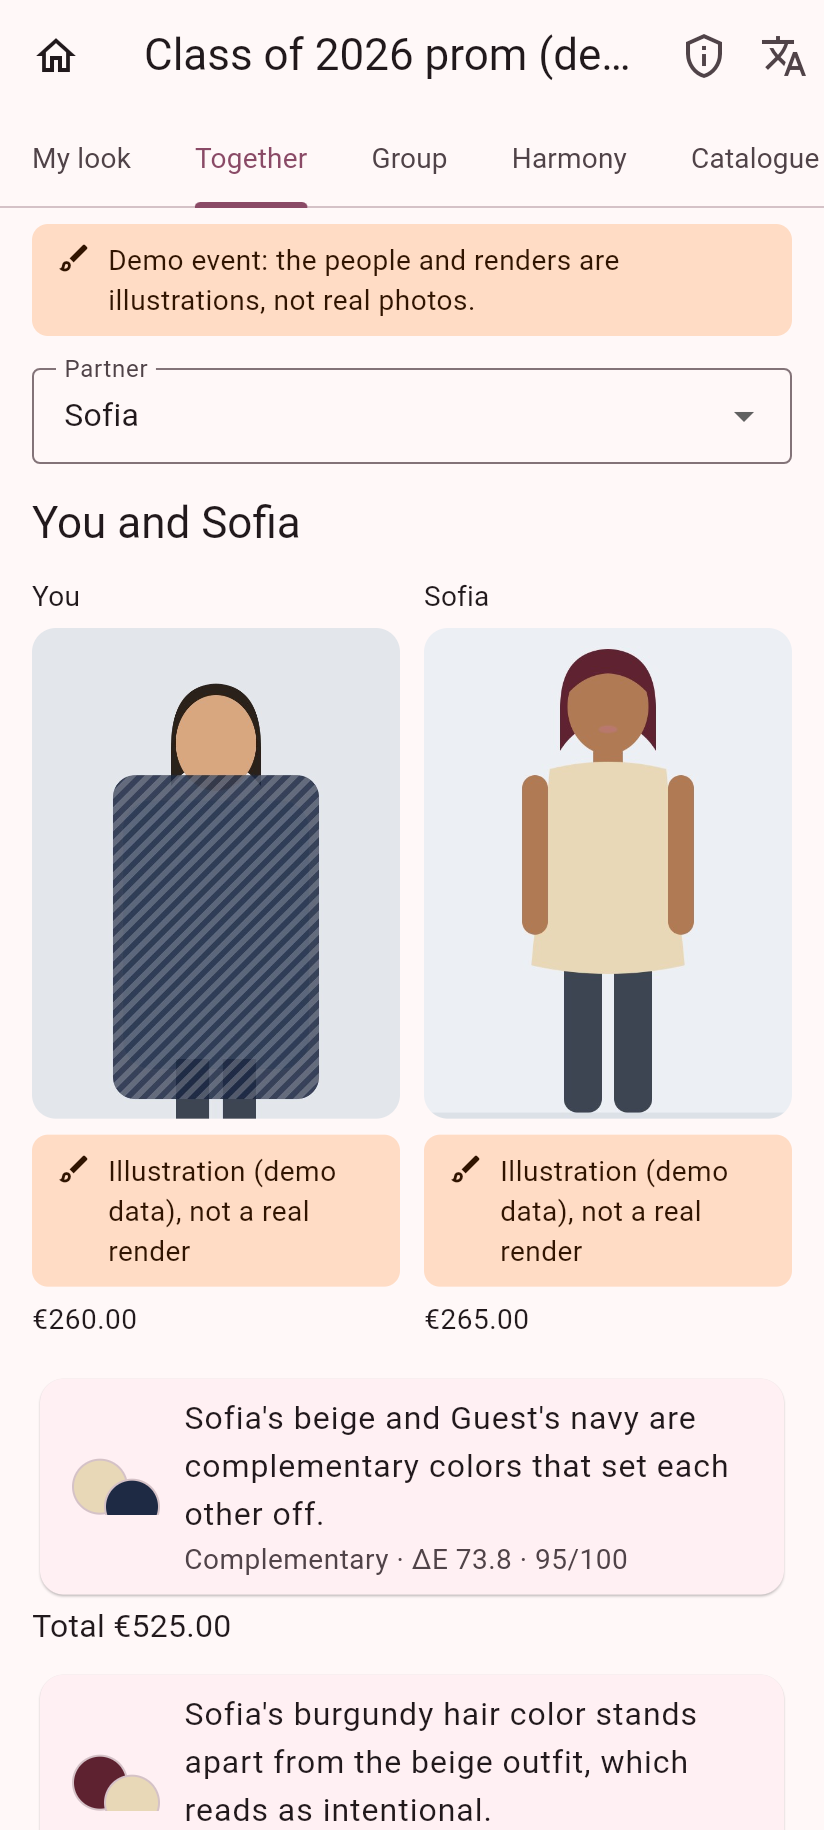
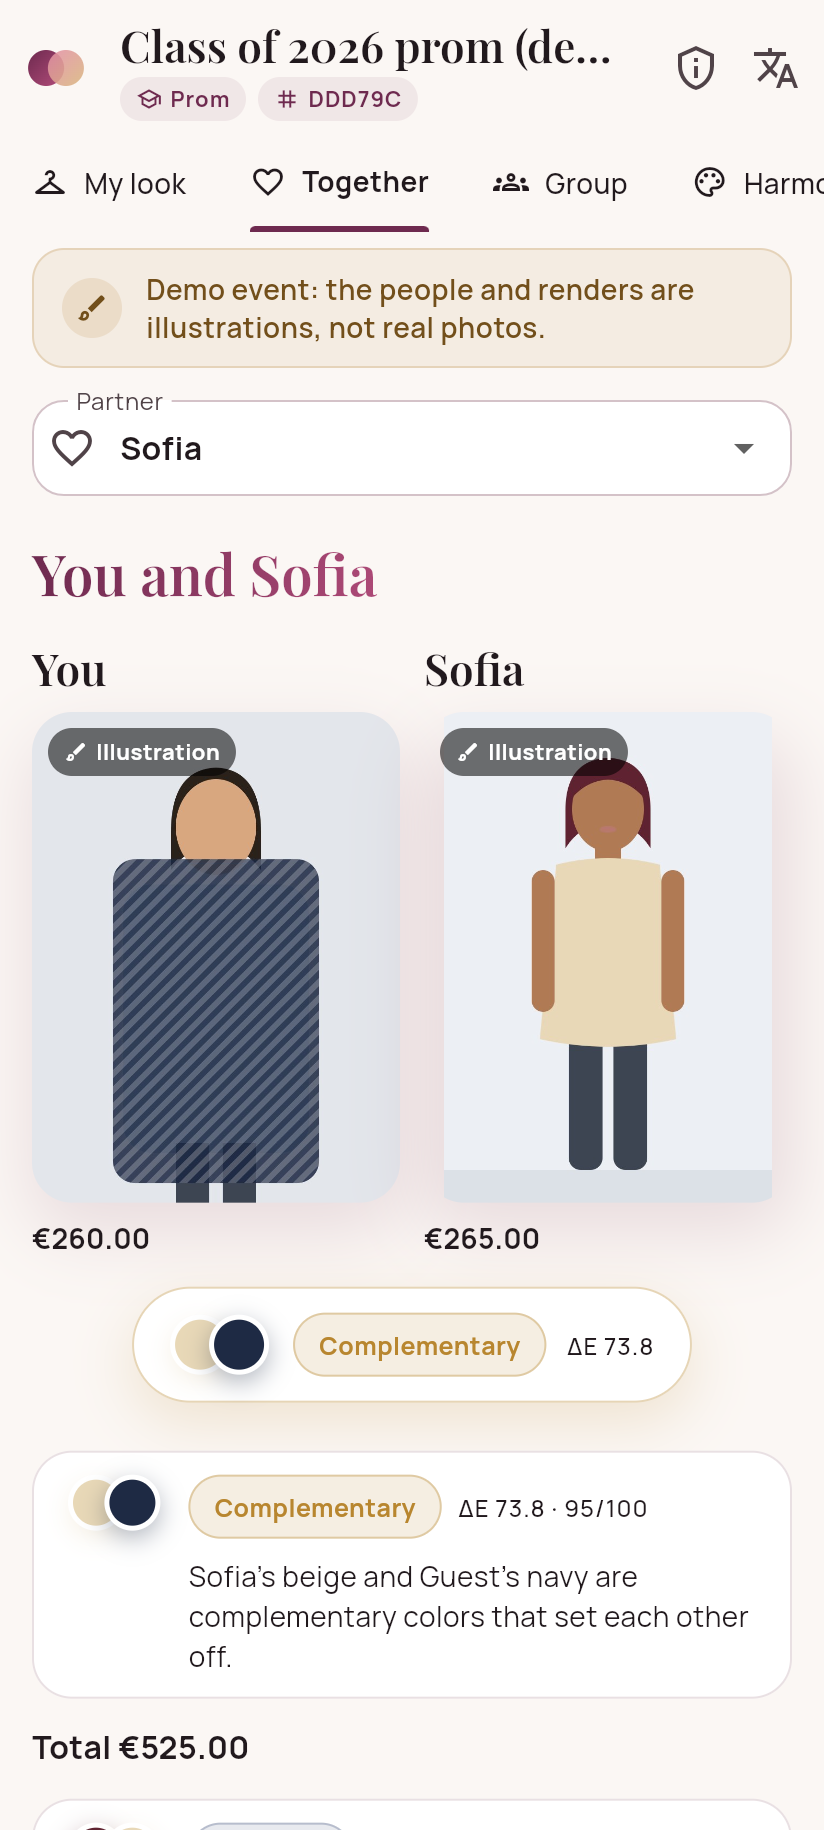
Polish the redesign from a visual review and refresh screenshots
Color strips in the catalogue now render, the partner relation fits narrow screens, compact try-on pictures carry a small simulated or illustration badge, the join code uses lining figures, color pairs no longer clip their shadows, and focused pages opened from a link offer a way home. README shows the new design in light and dark.

Changed region(s): [[0.0303, 0.0, 1.0, 1.0], [0.7282, 0.9344, 0.8495, 0.9656], [0.8799, 0.218, 0.9102, 0.2492]]

diff --git a/app/lib/features/event/together_tab.dart b/app/lib/features/event/together_tab.dart
@@ -144,8 +144,12 @@ class _TogetherTabState extends State<TogetherTab> with BoardLoader {
                   const SizedBox(height: 16),
                   LayoutBuilder(
                     builder: (context, constraints) {
-                      final link = _HarmonyLink(finding: pairFinding);
-                      if (constraints.maxWidth < 520) {
+                      final narrow = constraints.maxWidth < 520;
+                      final link = _HarmonyLink(
+                        finding: pairFinding,
+                        horizontal: narrow,
+                      );
+                      if (narrow) {
                         return Column(
                           crossAxisAlignment: CrossAxisAlignment.stretch,
                           children: [
@@ -232,9 +236,12 @@ class _TogetherTabState extends State<TogetherTab> with BoardLoader {
 
 /// The color relation between two people, drawn between their pictures.
 class _HarmonyLink extends StatelessWidget {
-  const _HarmonyLink({required this.finding});
+  const _HarmonyLink({required this.finding, this.horizontal = false});
 
   final HarmonyFinding? finding;
+
+  /// Below the pictures on narrow screens; between them otherwise.
+  final bool horizontal;
 
   @override
   Widget build(BuildContext context) {
@@ -243,46 +250,62 @@ class _HarmonyLink extends StatelessWidget {
     if (f == null) {
       return const Icon(Icons.favorite, color: Brand.rose, size: 32);
     }
+    final color = relationColor(f.relation);
+    final pair = ColorPair(
+      a: hexColor(f.colors[0].hex),
+      b: hexColor(f.colors[1].hex),
+      size: 30,
+    );
+    final pill = RelationPill(
+      relation: f.relation,
+      label: relationName(l10n, f.relation),
+    );
+    final delta = Text(
+      'ΔE ${f.deltaE.toStringAsFixed(1)}',
+      style: Theme.of(context).textTheme.labelMedium,
+    );
+
     return Reveal(
       delay: const Duration(milliseconds: 320),
       scale: 0.8,
       child: Container(
-        width: 112,
-        padding: const EdgeInsets.symmetric(vertical: 16, horizontal: 10),
+        width: horizontal ? null : 132,
+        padding: horizontal
+            ? const EdgeInsets.symmetric(vertical: 12, horizontal: 18)
+            : const EdgeInsets.symmetric(vertical: 16, horizontal: 10),
         decoration: BoxDecoration(
           color: Theme.of(context).colorScheme.surfaceContainerLowest,
-          borderRadius: BorderRadius.circular(24),
-          border: Border.all(
-            color: relationColor(f.relation).withValues(alpha: 0.35),
-          ),
+          borderRadius: BorderRadius.circular(horizontal ? 40 : 24),
+          border: Border.all(color: color.withValues(alpha: 0.35)),
           boxShadow: [
             BoxShadow(
-              color: relationColor(f.relation).withValues(alpha: 0.18),
+              color: color.withValues(alpha: 0.18),
               blurRadius: 24,
               offset: const Offset(0, 10),
             ),
           ],
         ),
-        child: Column(
-          mainAxisSize: MainAxisSize.min,
-          children: [
-            ColorPair(
-              a: hexColor(f.colors[0].hex),
-              b: hexColor(f.colors[1].hex),
-              size: 30,
-            ),
-            const SizedBox(height: 10),
-            RelationPill(
-              relation: f.relation,
-              label: relationName(l10n, f.relation),
-            ),
-            const SizedBox(height: 6),
-            Text(
-              'ΔE ${f.deltaE.toStringAsFixed(1)}',
-              style: Theme.of(context).textTheme.labelMedium,
-            ),
-          ],
-        ),
+        child: horizontal
+            ? Row(
+                mainAxisSize: MainAxisSize.min,
+                children: [
+                  pair,
+                  const SizedBox(width: 12),
+                  pill,
+                  const SizedBox(width: 10),
+                  delta,
+                ],
+              )
+            : Column(
+                mainAxisSize: MainAxisSize.min,
+                children: [
+                  pair,
+                  const SizedBox(height: 10),
+                  FittedBox(fit: BoxFit.scaleDown, child: pill),
+                  const SizedBox(height: 6),
+                  delta,
+                ],
+              ),
       ),
     );
   }

diff --git a/app/lib/widgets/render_view.dart b/app/lib/widgets/render_view.dart
@@ -71,20 +71,21 @@ class RenderView extends StatelessWidget {
     } else if (render.checks?.drift == true) {
       notices.add(NoticeBar(l10n.checkDrift, icon: Icons.palette_outlined));
     }
+    // Simulated or illustrated results are always labeled: a full notice, or a
+    // small badge on the picture in compact layouts.
+    final simulatedLabel = render.resultUrl == null
+        ? null
+        : demo
+        ? (l10n.badgeIllustration, l10n.demoRenderBadge, Icons.brush_outlined)
+        : render.mock
+        ? (l10n.badgeSimulated, l10n.mockBadge, Icons.science_outlined)
+        : null;
     if (render.resultUrl != null) {
-      if (demo) {
+      if (simulatedLabel != null && !compact) {
         notices.add(
           NoticeBar(
-            l10n.demoRenderBadge,
-            icon: Icons.brush_outlined,
-            tone: NoticeTone.simulated,
-          ),
-        );
-      } else if (render.mock) {
-        notices.add(
-          NoticeBar(
-            l10n.mockBadge,
-            icon: Icons.science_outlined,
+            simulatedLabel.$2,
+            icon: simulatedLabel.$3,
             tone: NoticeTone.simulated,
           ),
         );
@@ -146,7 +147,53 @@ class RenderView extends StatelessWidget {
           ),
           child: ClipRRect(
             borderRadius: radius,
-            child: AspectRatio(aspectRatio: 3 / 4, child: picture),
+            child: AspectRatio(
+              aspectRatio: 3 / 4,
+              child: compact && simulatedLabel != null
+                  ? Stack(
+                      fit: StackFit.expand,
+                      children: [
+                        picture,
+                        Positioned(
+                          left: 8,
+                          top: 8,
+                          child: Tooltip(
+                            message: simulatedLabel.$2,
+                            child: Container(
+                              padding: const EdgeInsets.symmetric(
+                                horizontal: 8,
+                                vertical: 4,
+                              ),
+                              decoration: BoxDecoration(
+                                color: Colors.black.withValues(alpha: 0.55),
+                                borderRadius: BorderRadius.circular(12),
+                              ),
+                              child: Row(
+                                mainAxisSize: MainAxisSize.min,
+                                children: [
+                                  Icon(
+                                    simulatedLabel.$3,
+                                    size: 12,
+                                    color: Colors.white,
+                                  ),
+                                  const SizedBox(width: 4),
+                                  Text(
+                                    simulatedLabel.$1,
+                                    style: const TextStyle(
+                                      color: Colors.white,
+                                      fontSize: 11,
+                                      fontWeight: FontWeight.w700,
+                                    ),
+                                  ),
+                                ],
+                              ),
+                            ),
+                          ),
+                        ),
+                      ],
+                    )
+                  : picture,
+            ),
           ),
         ),
         if (render.steps.length > 1 && !compact) ...[

diff --git a/app/lib/widgets/form_scaffold.dart b/app/lib/widgets/form_scaffold.dart
@@ -1,4 +1,5 @@
 import 'package:flutter/material.dart';
+import 'package:go_router/go_router.dart';
 
 import '../theme.dart';
 import '../ui/effects.dart';
@@ -29,7 +30,16 @@ class FormScaffold extends StatelessWidget {
     final text = Theme.of(context).textTheme;
     return Scaffold(
       extendBodyBehindAppBar: true,
-      appBar: AppBar(actions: [...actions, const SizedBox(width: 8)]),
+      appBar: AppBar(
+        // Opened straight from a link there is no page to go back to; offer home instead.
+        leading: context.canPop()
+            ? null
+            : IconButton(
+                icon: const BrandMark(size: 18, showName: false),
+                onPressed: () => context.go('/'),
+              ),
+        actions: [...actions, const SizedBox(width: 8)],
+      ),
       body: AuroraBackground(
         intensity: 0.75,
         child: SafeArea(

diff --git a/app/lib/features/participant/join_screen.dart b/app/lib/features/participant/join_screen.dart
@@ -4,6 +4,7 @@ import 'package:go_router/go_router.dart';
 import '../../api/models.dart';
 import '../../app_scope.dart';
 import '../../l10n/app_localizations.dart';
+import '../../theme.dart';
 import '../../util/format.dart';
 import '../../widgets/common.dart';
 import '../../ui/effects.dart';
@@ -91,10 +92,7 @@ class _JoinScreenState extends State<JoinScreen> {
           controller: _code,
           textCapitalization: TextCapitalization.characters,
           textAlign: TextAlign.center,
-          style: text.headlineSmall?.copyWith(
-            letterSpacing: 8,
-            fontWeight: FontWeight.w700,
-          ),
+          style: Brand.numbers(text.headlineSmall)?.copyWith(letterSpacing: 8),
           decoration: InputDecoration(labelText: l10n.joinCodeLabel),
           onChanged: (_) => _lookUp(),
         ),

diff --git a/app/lib/features/event/catalogue_tab.dart b/app/lib/features/event/catalogue_tab.dart
@@ -70,7 +70,8 @@ class _CatalogueTabState extends State<CatalogueTab> {
 
   Future<void> _delete(CatalogItem item) async {
     final l10n = AppLocalizations.of(context);
-    if (!await confirm(context, l10n.deleteItemConfirm(item.name)) || !mounted) {
+    if (!await confirm(context, l10n.deleteItemConfirm(item.name)) ||
+        !mounted) {
       return;
     }
     await runWithFeedback(
@@ -307,6 +308,7 @@ class _ColorStrip extends StatelessWidget {
       child: SizedBox(
         height: 10,
         child: Row(
+          crossAxisAlignment: CrossAxisAlignment.stretch,
           children: [
             for (final color in colors)
               Expanded(

diff --git a/app/lib/l10n/app_localizations.dart b/app/lib/l10n/app_localizations.dart
@@ -1776,6 +1776,18 @@ abstract class AppLocalizations {
   /// In en, this message translates to:
   /// **'Try-on steps'**
   String get stepsTitle;
+
+  /// No description provided for @badgeIllustration.
+  ///
+  /// In en, this message translates to:
+  /// **'Illustration'**
+  String get badgeIllustration;
+
+  /// No description provided for @badgeSimulated.
+  ///
+  /// In en, this message translates to:
+  /// **'Simulated'**
+  String get badgeSimulated;
 }
 
 class _AppLocalizationsDelegate

diff --git a/app/lib/l10n/app_localizations_bg.dart b/app/lib/l10n/app_localizations_bg.dart
@@ -974,4 +974,10 @@ class AppLocalizationsBg extends AppLocalizations {
 
   @override
   String get stepsTitle => 'Стъпки на пробването';
+
+  @override
+  String get badgeIllustration => 'Илюстрация';
+
+  @override
+  String get badgeSimulated => 'Симулация';
 }

diff --git a/app/lib/ui/harmony_visuals.dart b/app/lib/ui/harmony_visuals.dart
@@ -92,6 +92,7 @@ class ColorPair extends StatelessWidget {
         width: size * 1.65,
         height: size,
         child: Stack(
+          clipBehavior: Clip.none,
           children: [
             Positioned(left: size * 0.65 * (1 - t) * 0.5, child: disc(a)),
             Positioned(

diff --git a/app/lib/l10n/app_localizations_en.dart b/app/lib/l10n/app_localizations_en.dart
@@ -970,4 +970,10 @@ class AppLocalizationsEn extends AppLocalizations {
 
   @override
   String get stepsTitle => 'Try-on steps';
+
+  @override
+  String get badgeIllustration => 'Illustration';
+
+  @override
+  String get badgeSimulated => 'Simulated';
 }

diff --git a/README.md b/README.md
@@ -6,6 +6,8 @@ Wearmony is a group virtual try-on. Everyone going to the same event (a prom, a 
 
 Built for the *YouCam API Skin AI & eCommerce VTO Hackathon*.
 
+![Wearmony landing page: "Try it on together." with an animated showcase of three illustrated friends and their color harmony](docs/screenshots/landing.jpg)
+
 - Web app: see [Deploy](docs/deploy.md) (GitHub Pages)
 - Android: APK on the Releases page
 - Runs fully offline in mock mode: no accounts or API keys needed ([Run locally](#run-locally))
@@ -28,11 +30,17 @@ The group board shows everyone side by side ("7 of 8 rendered"), per-person and 
 
 ![Group board of the demo prom: everyone side by side, budget, and a near-miss warning between two partners](docs/screenshots/board.png)
 
-| My look (phone) | Together | Hairdresser link | Bulgarian |
+| My look: before/after slider | Together | Hairdresser link | Bulgarian |
 | --- | --- | --- | --- |
-| ![Look builder with a simulated try-on](docs/screenshots/my-look-phone.png) | ![Two partners side by side with their color relation](docs/screenshots/together-phone.png) | ![Read-only vendor page with the chosen hair color and the before photo](docs/screenshots/vendor-hair-phone.png) | ![Landing page in Bulgarian](docs/screenshots/landing-bg.png) |
+| ![Look builder with a before/after slider over a simulated try-on](docs/screenshots/my-look-phone.png) | ![Two partners side by side with their color relation](docs/screenshots/together-phone.png) | ![Read-only vendor page with the chosen hair color and the before photo](docs/screenshots/vendor-hair-phone.png) | ![Landing page in Bulgarian](docs/screenshots/landing-bg.jpg) |
+
+| Harmony report | Catalogue with extracted colors | Dark mode |
+| --- | --- | --- |
+| ![Animated harmony gauge and the weakest pair explained](docs/screenshots/harmony.png) | ![Catalogue cards with a strip of the extracted garment colors](docs/screenshots/catalogue.png) | ![Landing page in dark mode](docs/screenshots/landing-dark.jpg) |
 
 Screenshots come from the built-in demo event: the people are illustrations, not photos, and its renders are labeled as demo data.
+
+The interface uses Playfair Display and Manrope (both with Cyrillic), a plum, rose and champagne palette with light and dark themes, and motion throughout: a drifting aurora backdrop, staggered reveals, a before/after wipe on each try-on, a scanning beam while a render runs, an animated harmony gauge, and sparkles when a look is locked. All motion switches off when the system asks for reduced motion.
 
 ## How YouCam is used
 
